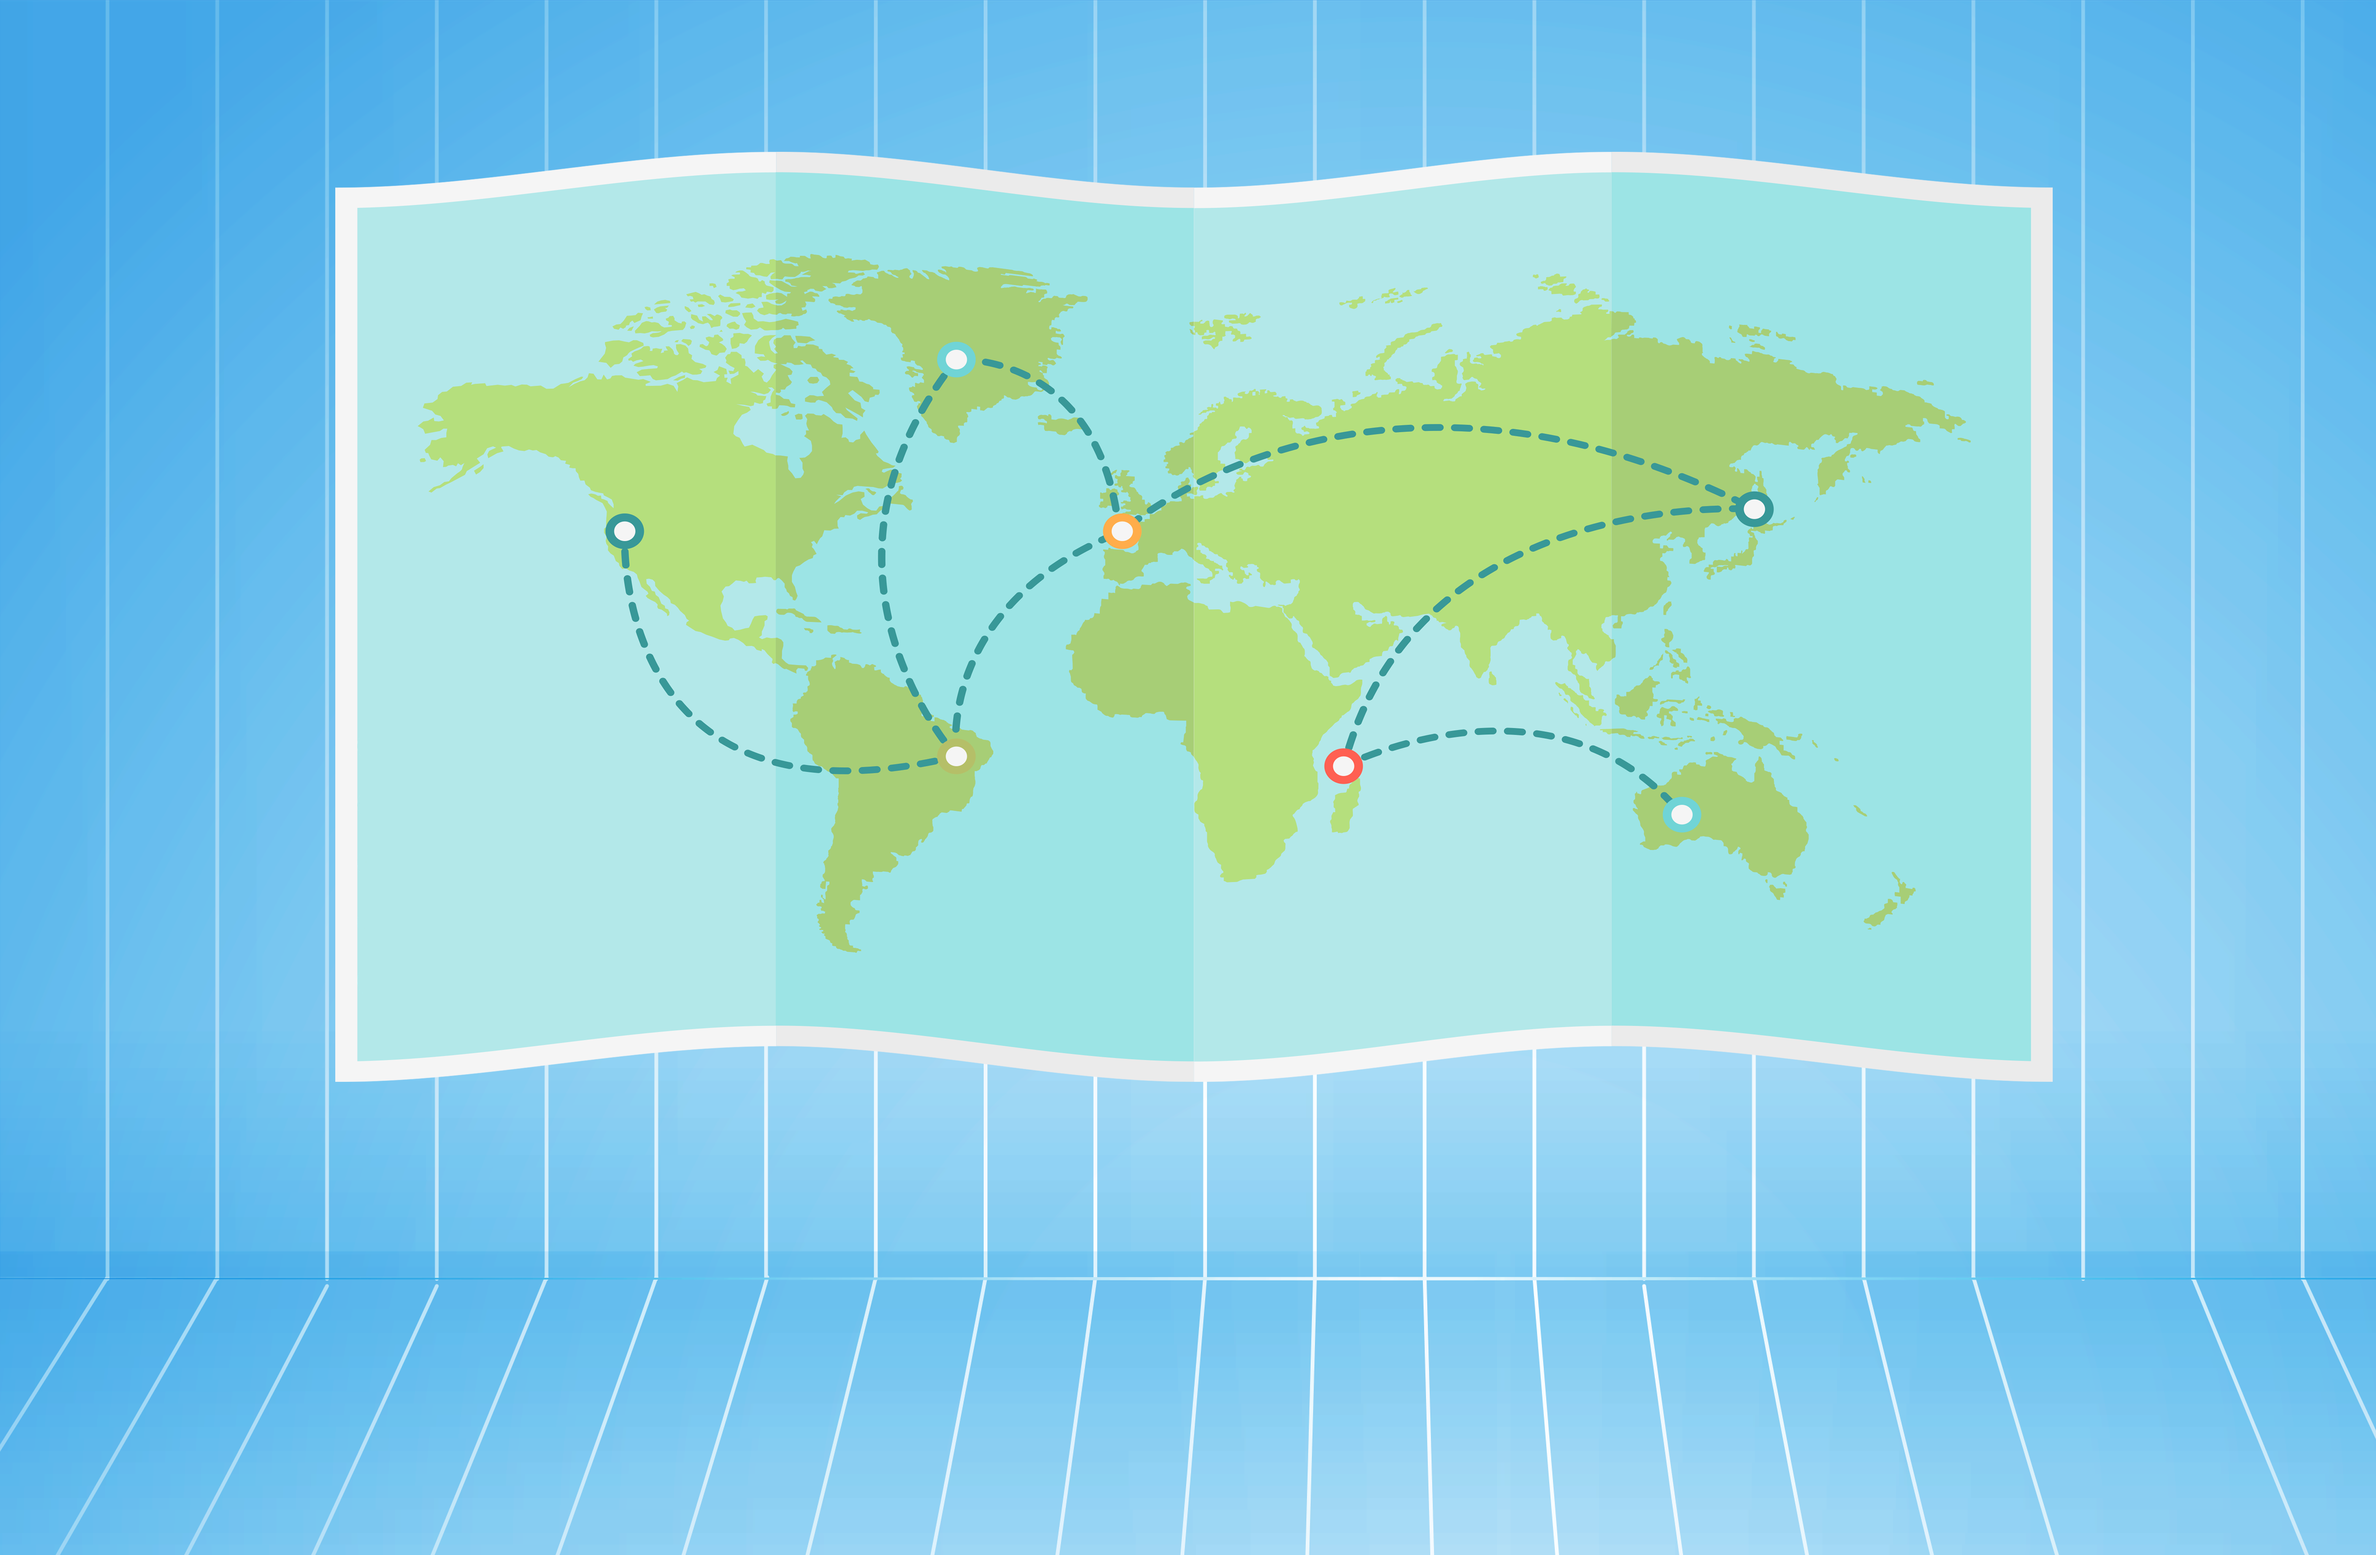
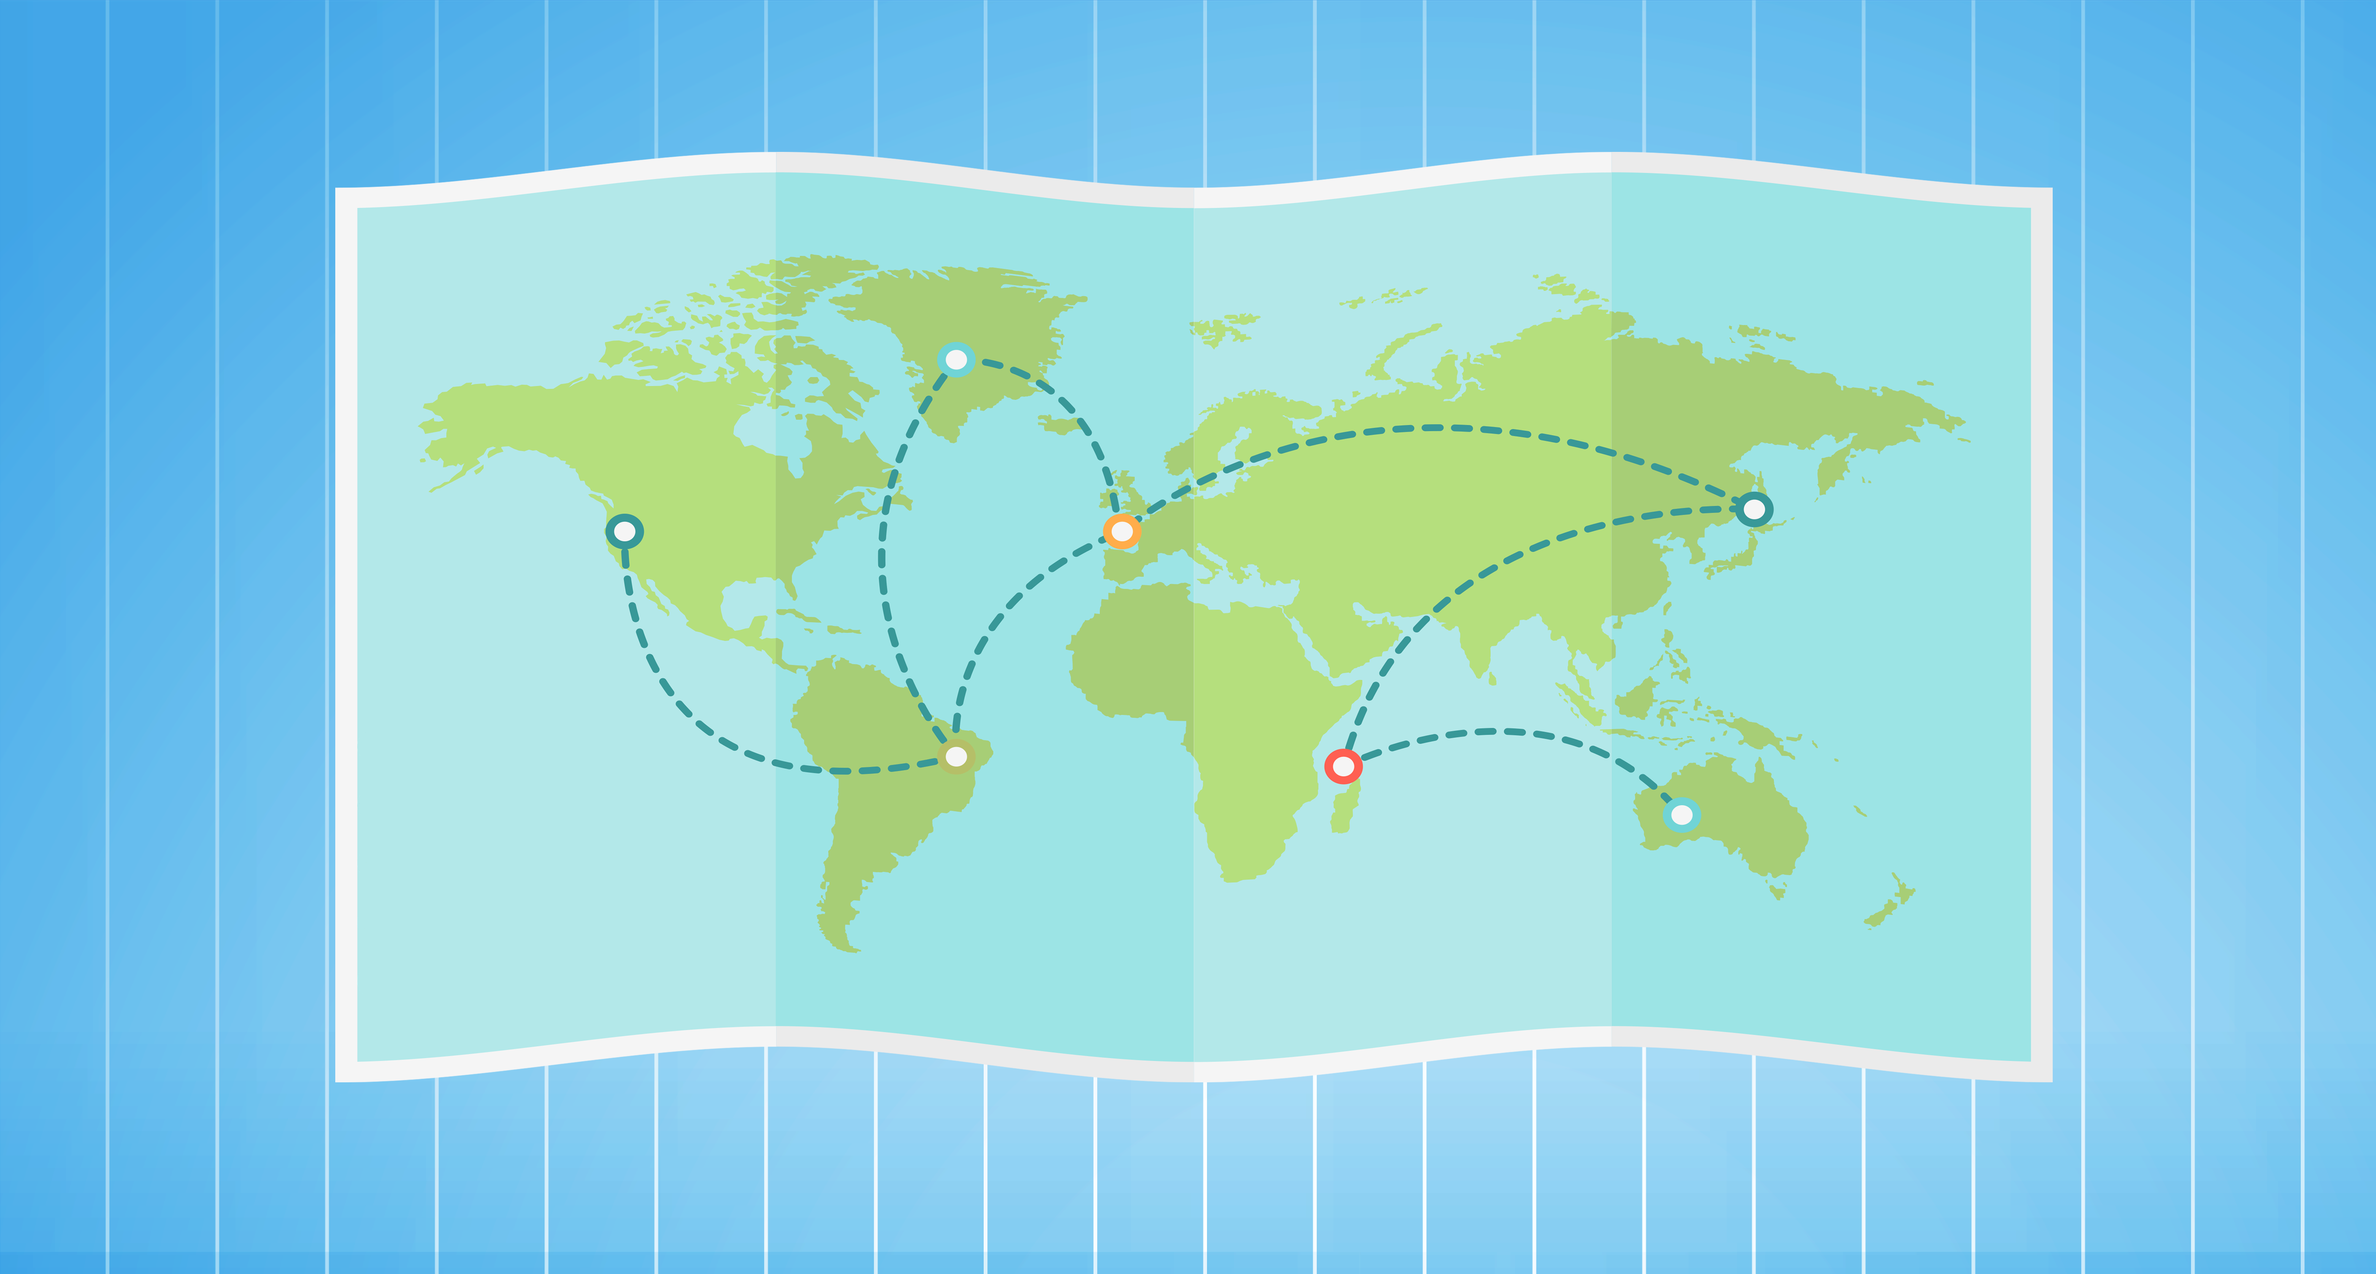
#88 Debut Design DeptGuesser, #81 fix design

diff --git a/GeoQuizz/js/CapitalCity/capitalCity.js b/GeoQuizz/js/CapitalCity/capitalCity.js
@@ -280,7 +280,7 @@ const checkAnswer = (userAnswer) => {
         if (userAnswer === questions.cap) {
             state.answer.querySelector('h2').style.color = 'green'
             state.answer.querySelector('h2').innerHTML = 'Bonne réponse !';
-            state.answer.querySelector('h3').innerHTML = "La capitale de " + questions.pays + " est bien  " + questions.cap + " !";
+            state.answer.querySelector('h3').innerHTML = "La capitale de ce pays : " + questions.pays + " est bien  " + questions.cap + " !";
             state.answer.querySelector('p').innerHTML = '';
             score++;
             WIN.play();
@@ -288,14 +288,14 @@ const checkAnswer = (userAnswer) => {
             // si non alors mauvais reponse
             state.answer.querySelector('h2').style.color = 'red'
             state.answer.querySelector('h2').innerHTML = 'Mauvaise réponse !';
-            state.answer.querySelector('p').innerHTML = "Et non ! Vous avez répondu " + rep + " qui est la capitale de " + rep2 + " <br> Alors que la capitale de " + questions.pays + " est  " + questions.cap + ' !';
+            state.answer.querySelector('p').innerHTML = "Et non ! Vous avez répondu " + rep + " qui est la capitale de " + rep2 + " <br><br> Alors que la capitale de " + questions.pays + " est  " + questions.cap + ' !';
             LOOSE.play();
         }
     } else {
         if (champ.value.toUpperCase().normalize("NFD").replace(/[\u0300-\u036f]/g, "") == questions.cap.toUpperCase().normalize("NFD").replace(/[\u0300-\u036f]/g, "")) {
             state.answer.querySelector('h2').style.color = 'green'
             state.answer.querySelector('h2').innerHTML = 'Bonne réponse !';
-            state.answer.querySelector('h3').innerHTML = "La capitale de " + questions.pays + " est bien  " + questions.cap + " !";
+            state.answer.querySelector('h3').innerHTML = "La capitale de ce pays : " + questions.pays + " est bien  " + questions.cap + " !";
             state.answer.querySelector('p').innerHTML = '';
             score++;
             WIN.play();

diff --git a/GeoQuizz/js/DeptGuesser/DeptGuesser.js b/GeoQuizz/js/DeptGuesser/DeptGuesser.js
@@ -52,7 +52,7 @@ const generateQuestion = () => {
     h1.id = "questionState";
     h1.innerHTML = "Question : " + questionNumber + "/" + totalQuestion;
     h2 = document.createElement('h2');
-    h2.innerHTML = "Ou se trouve le departement : " + question;
+    h2.innerHTML = "Où se trouve le departement : " + question;
     h2.id = "questionText";
     myDiv.appendChild(h1);
     myDiv.appendChild(h2);
@@ -66,7 +66,7 @@ const updateFails = () => {
     let currDiv = document.getElementById('question');
     let failslist = document.createElement('p');
     failslist.id = "fail";
-    failslist.innerHTML = 'Il vous reste ' + (fails+1) + ' essaies';
+    failslist.innerHTML = 'Il vous reste ' + (fails+1) + ' essais';
     currDiv.appendChild(failslist);
 }
 

diff --git a/GeoQuizz/css/deptGuesser.css b/GeoQuizz/css/deptGuesser.css
@@ -1,6 +1,22 @@
+@font-face {
+    src: url( ../fonts/MilkyNice.ttf );
+    font-family: milky;
+}
+
+body {
+    background-image: url("../assets/jeux.png");
+    background-size:cover;
+    background-repeat:no-repeat;
+    background-position-y: 100%;
+    background-attachment:fixed;
+    background-position: center !important;
+    font-family: milky !important;
+    text-align: center !important;
+}
+
 .map {
-    width: 50%;
-    margin-left: 20%;
+    width: 35%;
+    margin-left: 30%;
     float: center;
 }
 
@@ -14,3 +30,4 @@
 .map path:hover{
     fill: blueviolet;
 }
+

diff --git a/GeoQuizz/css/flagFinder.css b/GeoQuizz/css/flagFinder.css
@@ -13,6 +13,10 @@ body {
     background-position: center !important;
 }
 
+h2 {
+    font-size: 150%  !important;
+}
+
 #question, img{
     height: 100px;
 }

diff --git a/GeoQuizz/css/capitalCity.css b/GeoQuizz/css/capitalCity.css
@@ -15,6 +15,11 @@ body {
 }
 
 
+h2 {
+    font-size: 150%  !important;
+    margin-bottom: 2% !important;
+}
+
 #ChoixText{
     margin-bottom: 10rem; 
 }
